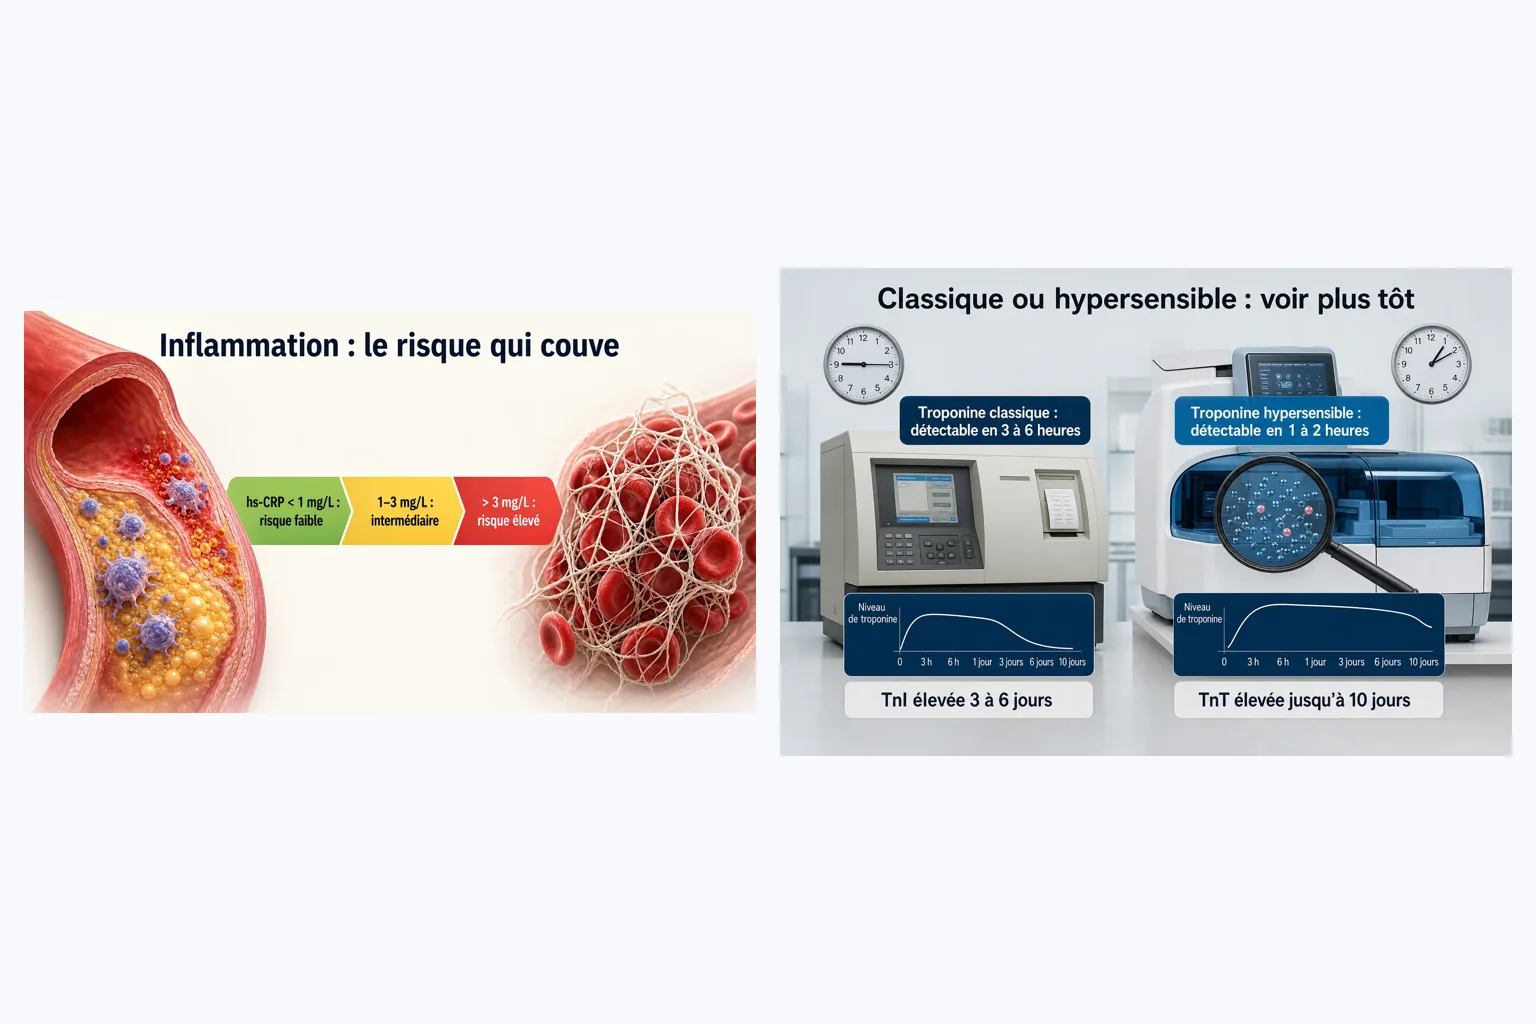
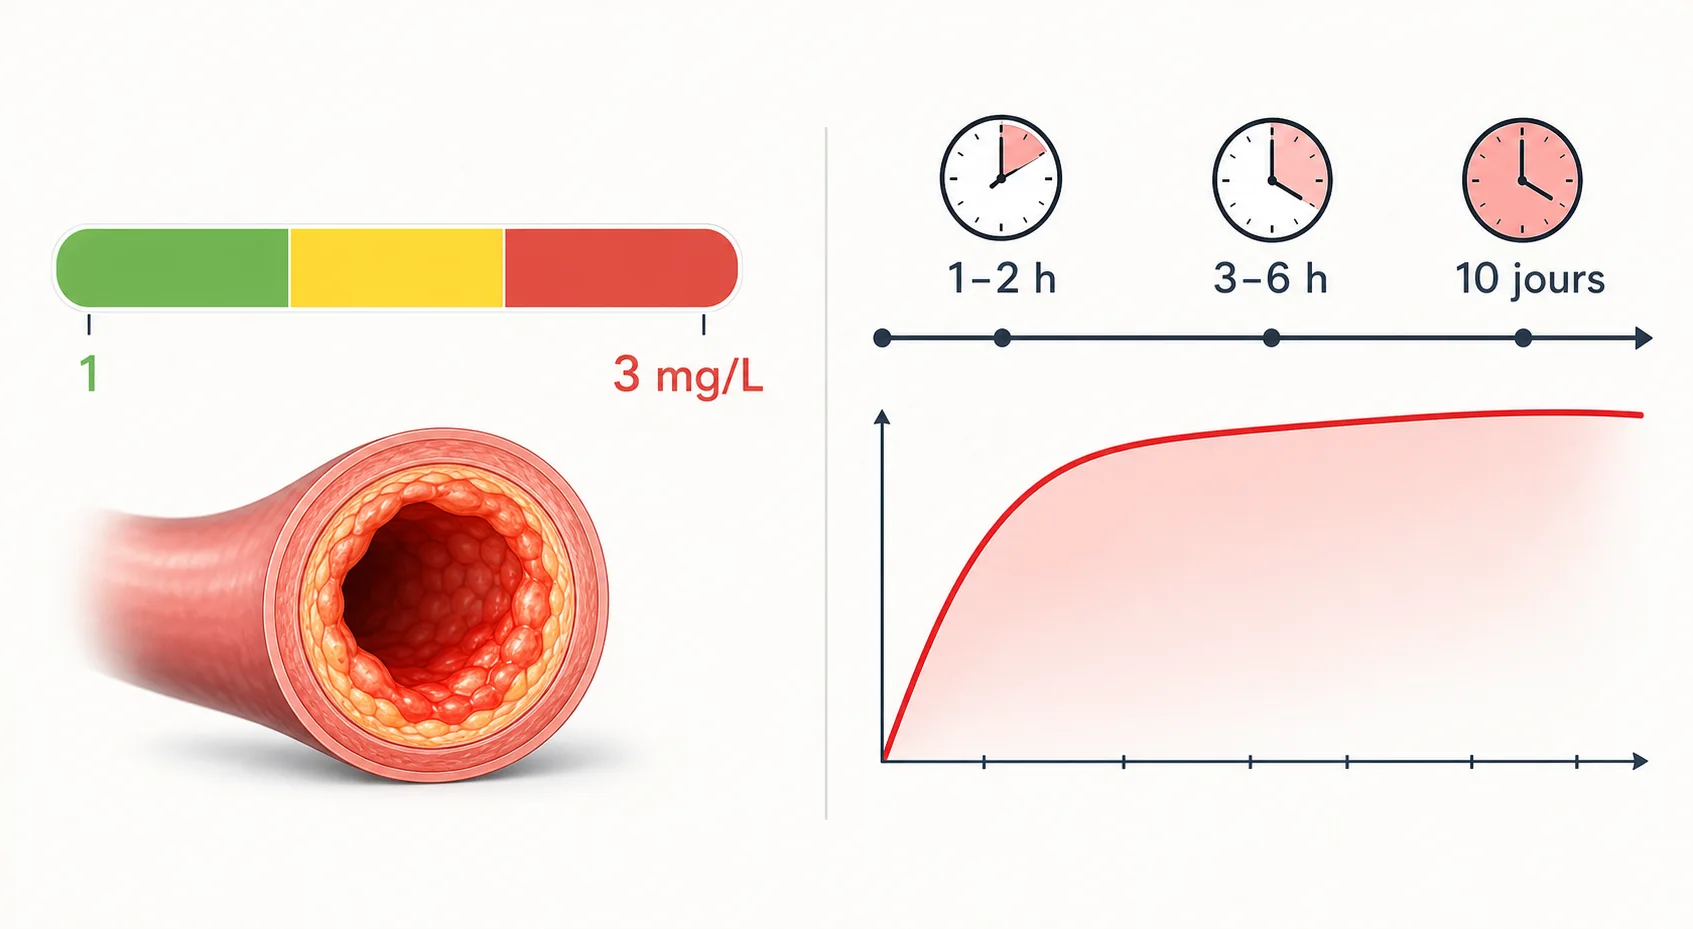
bi-06 100 % finale : planches ff-seuils+total dédiées (delta 03) + HANDOFF mode sans GitHub + KIT Drive nouvel agent

diff --git a/SEENmed-REPRISE/travail/bi-06-biomarqueurs/page/bi-06-biomarqueurs-cardiaques.html b/SEENmed-REPRISE/travail/bi-06-biomarqueurs/page/bi-06-biomarqueurs-cardiaques.html
@@ -1703,7 +1703,7 @@
                         <figcaption><b>5 · Un précurseur, deux destins</b> — le vert agit, le gris témoigne</figcaption>
                     </figure>
                     <figure class="flash-cell reveal" data-delay="1">
-                        <img src="../assets/img/bi-06/ff-seuils.webp" alt="Aide-mémoire flash des seuils : échelle colorée de risque hs-CRP en trois segments vert jaune rouge un et trois milligrammes par litre, et ligne de temps avec trois horloges une à deux heures, trois à six heures, dix jours" loading="lazy" width="1536" height="1024">
+                        <img src="../assets/img/bi-06/ff-seuils.webp" alt="Aide-mémoire flash des seuils : échelle colorée de risque hs-CRP en trois segments vert jaune rouge un et trois milligrammes par litre, et ligne de temps avec trois horloges une à deux heures, trois à six heures, dix jours" loading="lazy" width="1693" height="929">
                         <figcaption><b>6 · Les seuils & les heures</b> — 1 / 3 mg·L⁻¹ et 1–2 h / 3–6 h / 10 j</figcaption>
                     </figure>
                 </div>

diff --git a/SEENmed-REPRISE/HANDOFF-NOUVEL-AGENT.md b/SEENmed-REPRISE/HANDOFF-NOUVEL-AGENT.md
@@ -6,6 +6,18 @@
 
 ---
 
+## ⚠ ADDENDUM (2026-10-29) — MODE SANS GITHUB : LIS-MOI EN PREMIER
+
+Ton chat n'a **pas accès à GitHub** : le repo ne te sert à rien et tu ne peux ni le lire ni y écrire. **Tout se fait sur Google Drive** (connecté). Adaptations obligatoires du reste de ce document :
+
+1. **Point de départ** : le dossier Drive **`00_KIT-NOUVEL-AGENT_2026-10-29`** (ID `1bHMhdFd94LIgR_GD9vIkv2zMRK-KjFYI`) contient ce fichier + **`KIT-NOUVEL-AGENT_SEENmed_2026-10-29.zip`** = l'intégralité de `SEENmed-REPRISE/` (docs 00→05, DETAILS-LOCK, protocole des sources, chartes, `tools/audit_seenmed.py`, builders et artefacts complets de bi-05/bi-06). Télécharge le ZIP (`google_drive__download_file`), il atterrit dans `google_drive/` de ton workspace : dézippe-le et travaille dans le `SEENmed-REPRISE/` obtenu — tous les chemins « repo » de ce document désignent ce dossier dézippé.
+2. **Reconstruction de la base** : inchangée (§1.5, étapes 2→3e — elle était déjà 100 % Drive), **plus** l'application du delta **`03_DELTA-bi-06-final_2026-10-29`** (ID `1E_2B9t-Ezsntq1jFF-XSzxOFy7g8JE82`) après le 02. Ignore §1.1-2 (Git), §1.3 et §1.4 : pas de `.gitignore` chez toi, mais garde son esprit (ne stocke durablement dans ton workspace ni le site complet ni les archives — tout finit sur Drive).
+3. **En remplacement des commits** : pour chaque leçon terminée, dans le même dossier Drive de livraison que le ZIP utilisateur (§9), uploade en plus un **`ARTEFACTS-<id-leçon>.zip`** contenant `PLAN-SOURCE.md` + `build_<id>.py` + `audio-scripts.md` + la page HTML + le `data.js` final + les WebP finaux. **Aucun artefact ne doit exister uniquement dans ton workspace à la fin d'un tour** (les workspaces d'agents sont éphémères — même maladie que `/tmp`, §1.1).
+4. **Le §10.0 (micro-tâches bi-06) est DÉJÀ FAIT** le 29/10 par l'agent précédent : les 2 planches dédiées (`ff-seuils`, `total`) ont été régénérées et livrées par le delta 03. bi-06 est à 100 %. Ta première construction = **pn-01** (§10.1).
+5. Si GitHub redevient accessible un jour : le repo `AbidMohamedYacine/medecine-study` contient le même contenu que ce kit (branche `arena/6cbc9050-medecine-study`, PR #1) — archive froide, pas un prérequis.
+
+---
+
 ## 0. LA MISSION
 
 - **Utilisateur** : étudiant en 3ᵉ année de médecine (Algérie, Oran). **Examen le 26/11/2026** (pneumologie incluse ; immunologie + anatomo-pathologie = fin janvier 2027). **Gel des constructions à J-7 (≈ 19/11/2026)** : après, révision seulement.

diff --git a/SEENmed-REPRISE/travail/bi-06-biomarqueurs/PLAN-SOURCE.md b/SEENmed-REPRISE/travail/bi-06-biomarqueurs/PLAN-SOURCE.md
@@ -101,3 +101,4 @@ Arabe complet + mots-clés (~36).
 - [x] Contrôle refs bi-06 : 34/34 résolues. (Audit site complet à refaire après reconstruction de la base — voir HANDOFF §Étape 0 ; dernier audit complet 28/10 : 61 pages, 11 AN-06.)
 - [x] **Livraison Drive `02_LIVRAISON-bi-06_2026-10-29`** (dossier `1VDAoeTxUWiM4o6J8Bq503x-B1CzsE1OK`) : ZIP `1oZixx-zRQDwsRiewm9QEQLWEbCzpJ94f` — 9 681 368 o, MD5 `5d3e62d5d9a437af37a8ec5f9b115e3c`, 37 fichiers (bi-06 complète + page bi-05 corrigée + data.js) ; LISEZ-MOI `1zYRioIZx_idpSyBdirVZ8vMDmCRio5-M`.
 - Suite : voir `SEENmed-REPRISE/HANDOFF-NOUVEL-AGENT.md` (passation complète au nouvel agent).
+- **29/10 (suite)** : planches dédiées `ff-seuils` (1693×929) et `total` (1536×1024) régénérées et relues — les composites sont retirés, bi-06 à 100 %. Livraison `03_DELTA-bi-06-final_2026-10-29` (dossier `1E_2B9t-Ezsntq1jFF-XSzxOFy7g8JE82`) : page re-dims + 2 planches. Kit nouvel agent (chat sans GitHub) : dossier `00_KIT-NOUVEL-AGENT_2026-10-29` (`1bHMhdFd94LIgR_GD9vIkv2zMRK-KjFYI`) = HANDOFF + ZIP intégral SEENmed-REPRISE.
